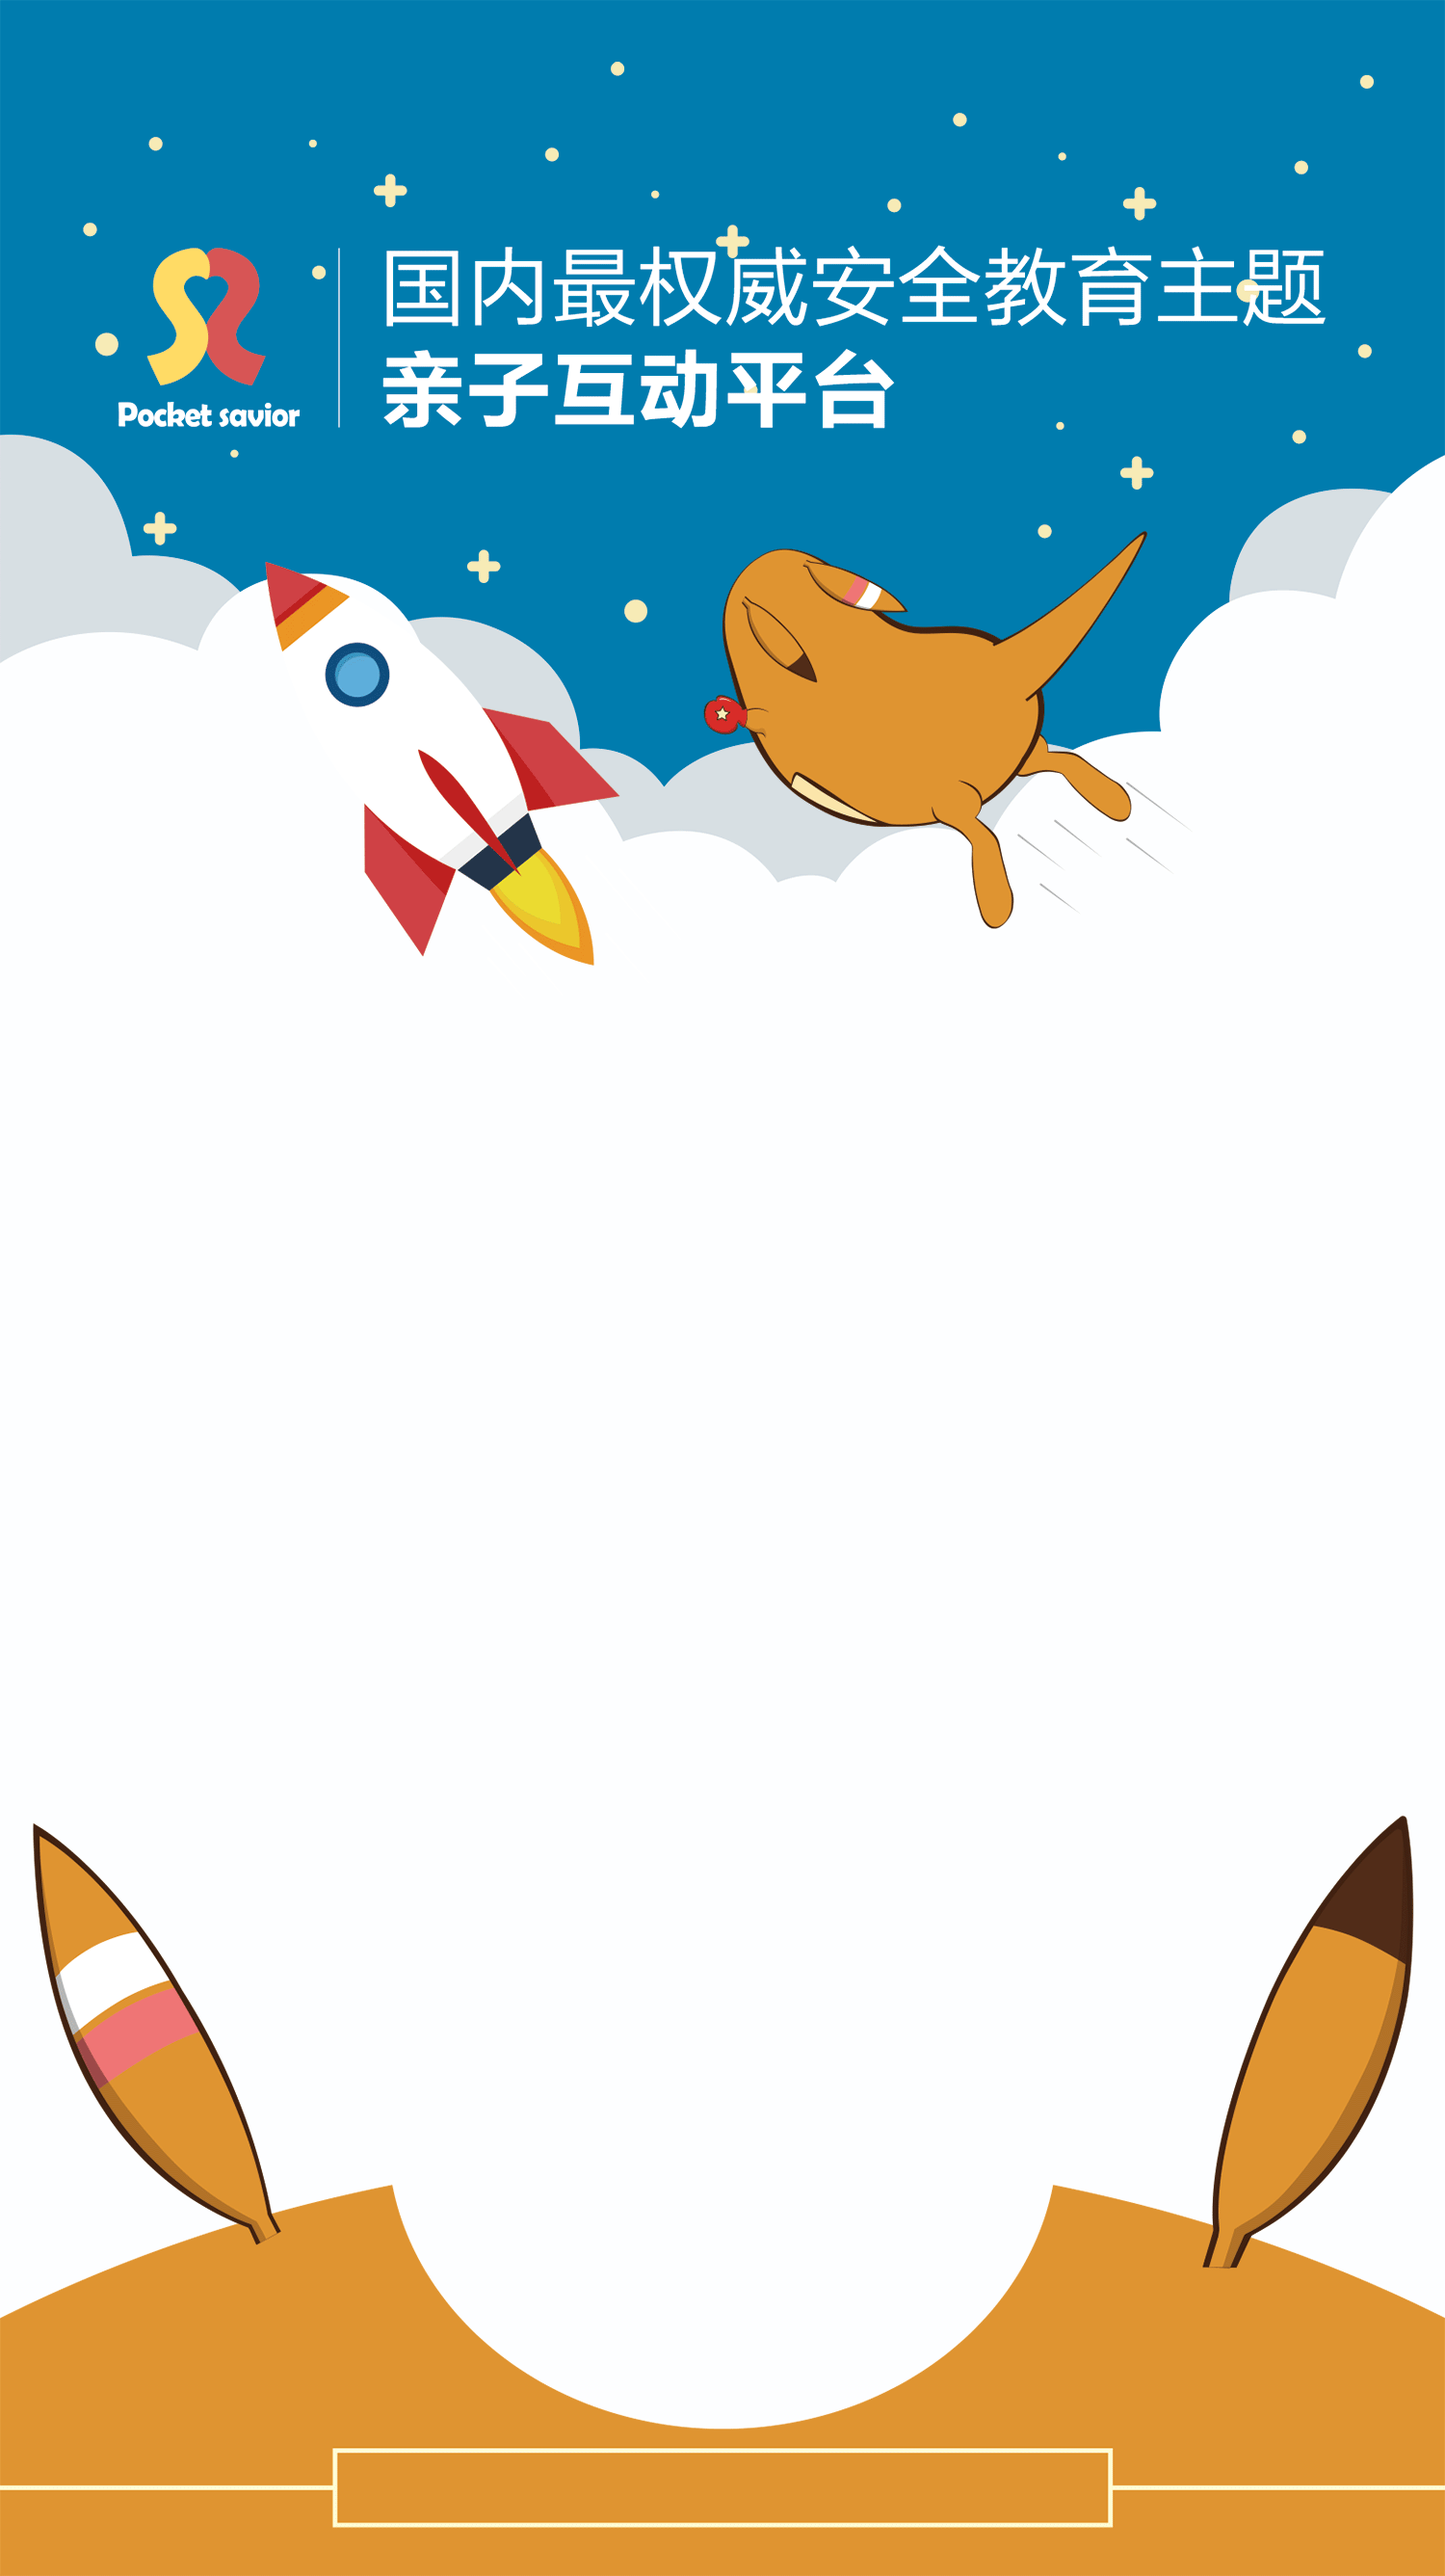
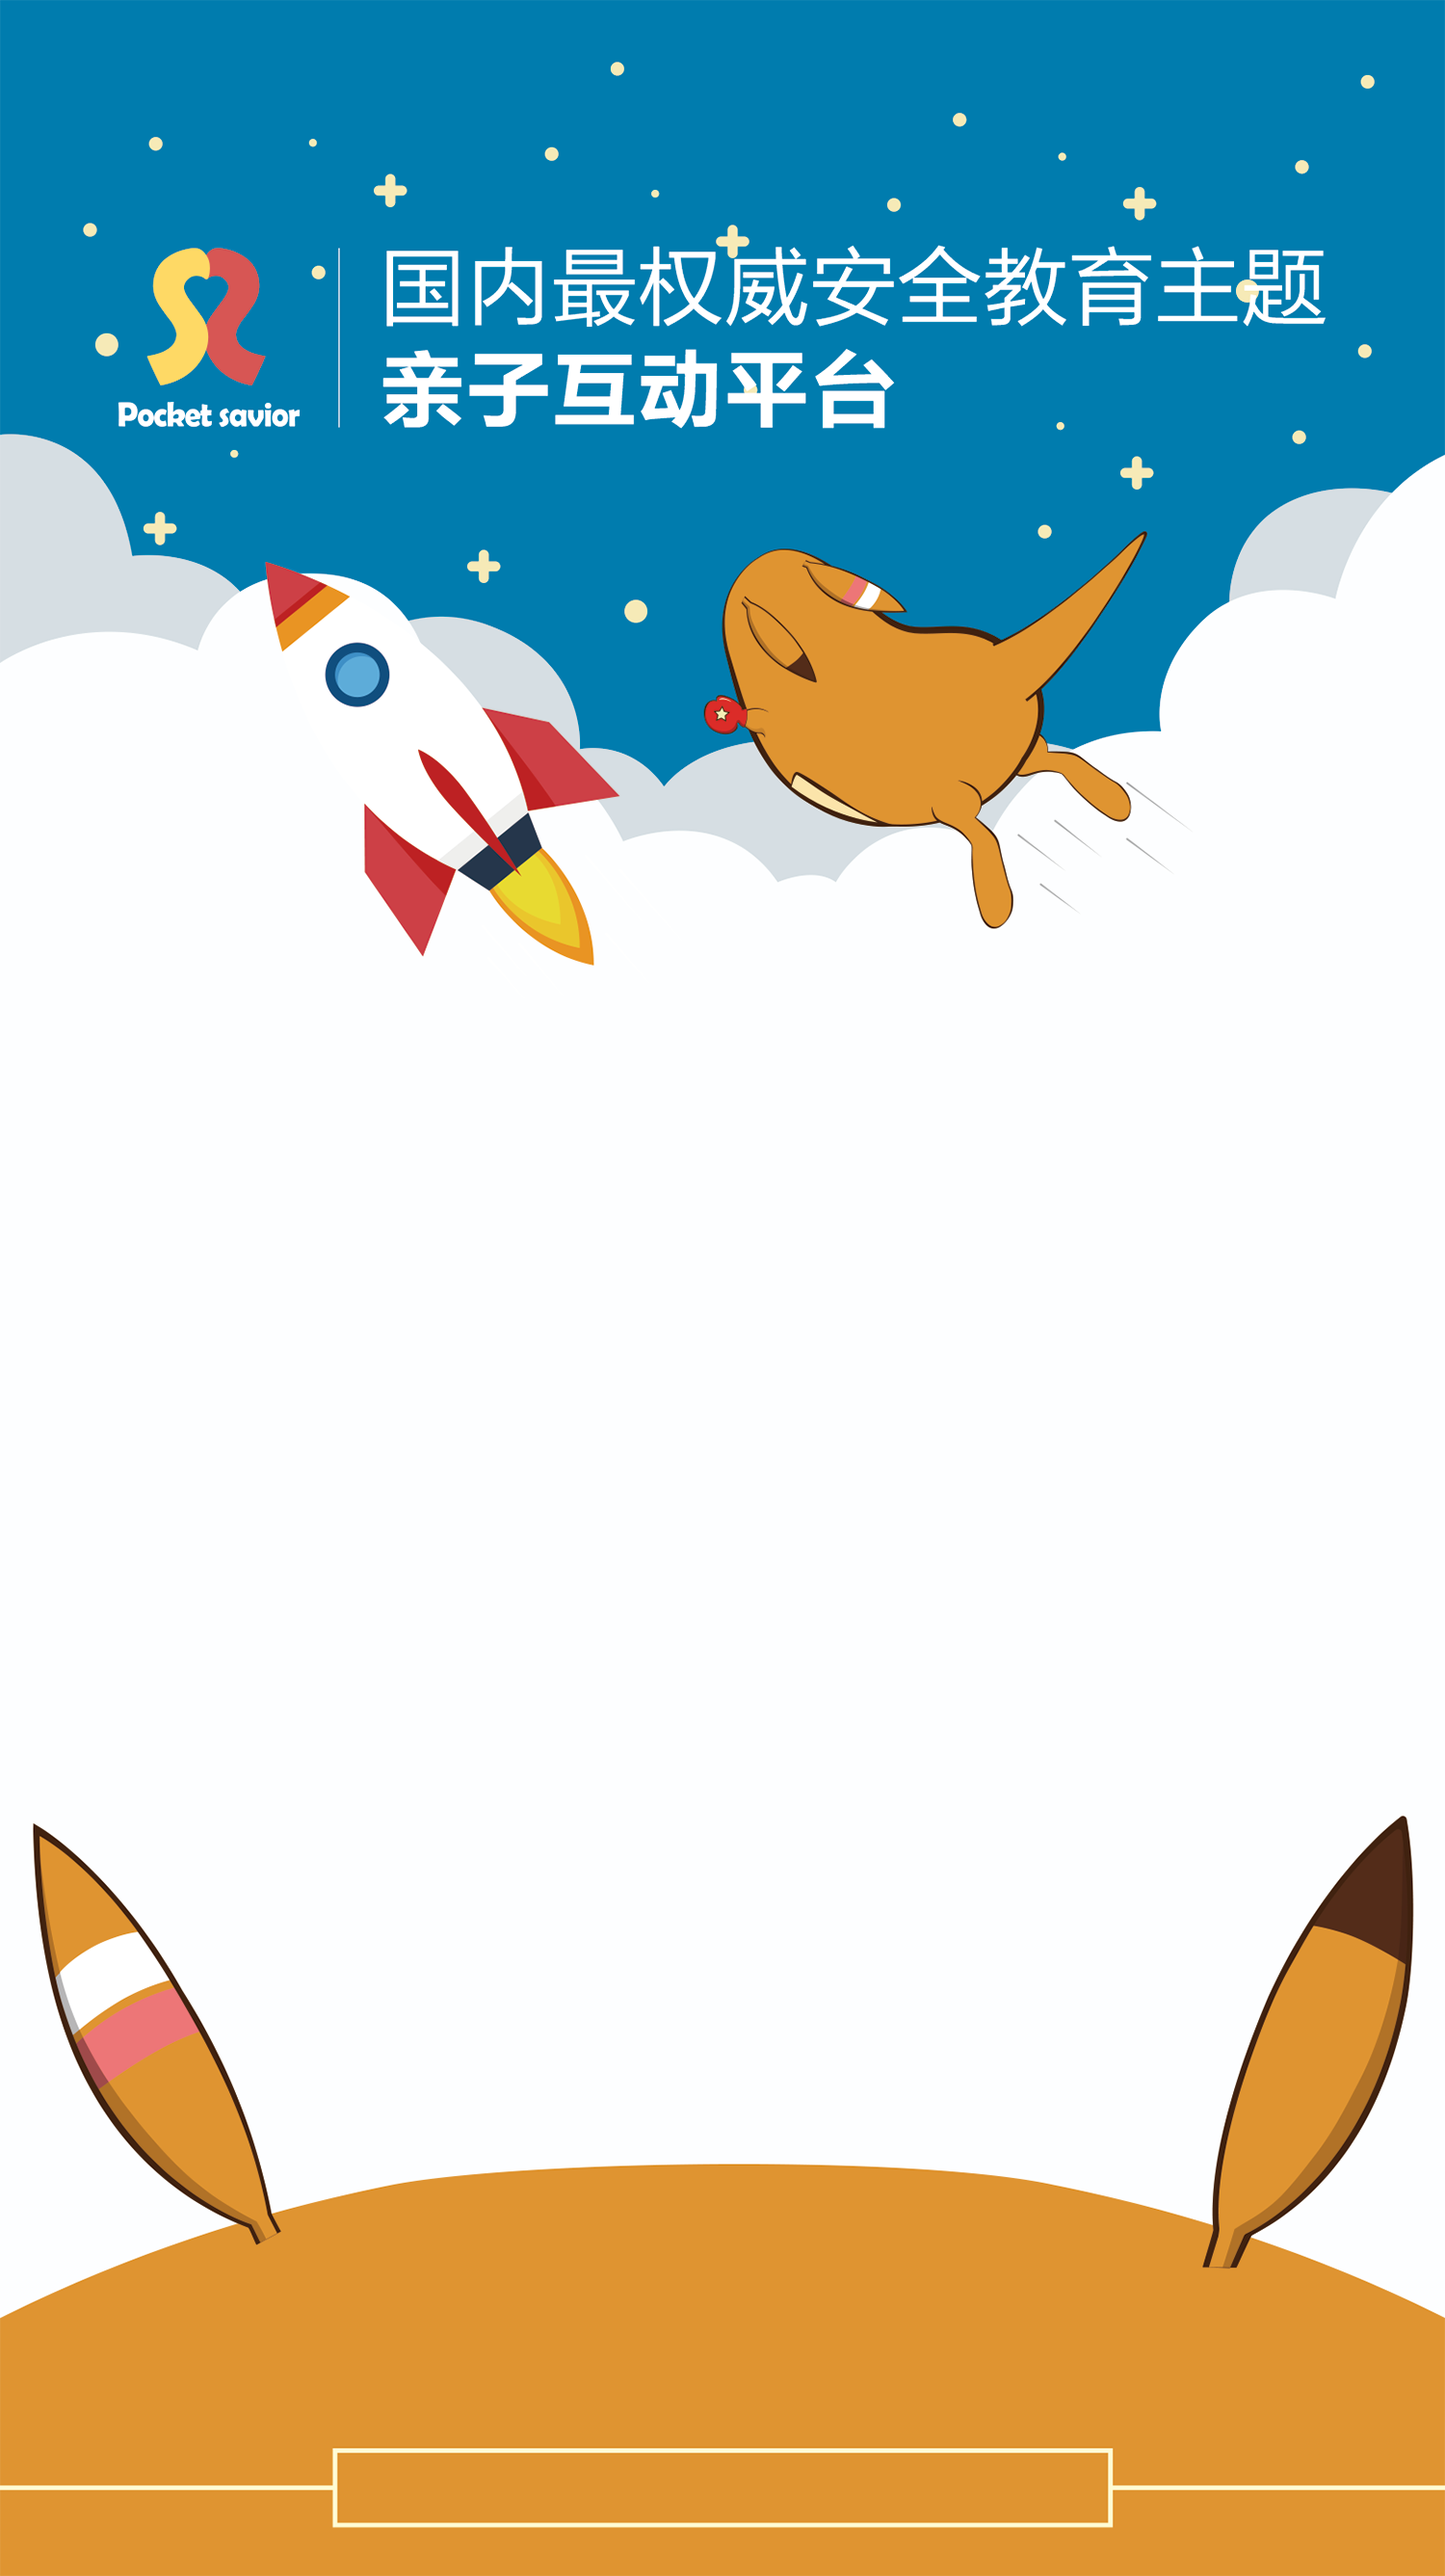
Book页完成

Changed region(s): [[0.276, 0.8384, 0.736, 0.9626], [0.5827, 0.2174, 0.6133, 0.2484]]

diff --git a/Mobile/views/book.html b/Mobile/views/book.html
@@ -3,14 +3,14 @@
         <img src="images/followus/followus_close.png" class="favbox_close" ng-click="hideFav($event)">
     </div>
     <ul class="book_links">
-        <li style="margin-bottom: 3%;"><a href="javascript:;" ng-click="showBookChapter($event,1)"><img src="images/book/book_link_zrzh.png" class="section_img"></a></li>
-        <li style="margin-bottom: 3%;"><a href="javascript:;" ng-click="showBookChapter($event,1)"><img src="images/book/book_link_sgzh.png" class="section_img"></a></li>
-        <li style="margin-bottom: 3%;"><a href="javascript:;" ng-click="showBookChapter($event,1)"><img src="images/book/book_link_shaq.png" class="section_img"></a></li>
+        <li style="margin-bottom: 4%;"><a href="javascript:;" ng-click="showBookChapter($event,1)"><img src="images/book/book_link_zrzh.png" class="section_img"></a></li>
+        <li style="margin-bottom: 4%;"><a href="javascript:;" ng-click="showBookChapter($event,1)"><img src="images/book/book_link_sgzh.png" class="section_img"></a></li>
+        <li style="margin-bottom: 4%;"><a href="javascript:;" ng-click="showBookChapter($event,1)"><img src="images/book/book_link_shaq.png" class="section_img"></a></li>
         <li><a href="javascript:;" ng-click="showBookChapter($event,1)"><img src="images/book/book_link_ywsh.png" class="section_img"></a></li>
         <li><a href="javascript:;" ng-click="showBookChapter($event,1)"><img src="images/book/book_link_ggws.png" class="section_img"></a></li>
         <li><a href="javascript:;" ng-click="showBookChapter($event,1)"><img src="images/book/book_link_yjcs.png" class="section_img"></a></li>
     </ul>
-    <img src="images/book/book_start.png" class="icon_book_start">
+    <a href="#/aboutus"><img src="images/book/icon_aboutus.png" class="icon_aboutus"></a>
     <img src="images/book/icon_fav.png" class="icon_fav" ng-click="showFav($event)">
     <div ng-include="'views/notice.html'"></div>
 </div>

diff --git a/Mobile/styles/common.css b/Mobile/styles/common.css
@@ -48,7 +48,7 @@
 .notice {
     position: absolute;
     font-size: 81%;
-    bottom: 1.83%;
+    bottom: 1.5%;
     color: #FFFFFF;
     left: 12.5%;
     width: 75%;
@@ -92,20 +92,19 @@
     background: url("../images/book/book_bg.png");
     background-size: 100% 100%;
 }
-.bookbox img.icon_book_start {
+.bookbox img.icon_aboutus {
     position: absolute;
-    width: 40.4%;
-    height: 15%;
-    top: 77.7%;
+    width: 53.13%;
+    bottom: 7%;
     left: 50%;
-    margin-left: -20.2%;
+    margin-left: -26.55%;
 }
 .bookbox ul.book_links {
     position: absolute;
     display: block;
     margin: 0 auto;
     width: 75%;
-    bottom: 25.5%;
+    bottom: 25%;
     left: 12.5%;
 }
 .bookbox ul.book_links li {
@@ -143,7 +142,7 @@
 
 /********************************book********************************/
 .chapterbox {
-    /*display: none;*/
+    display: none;
     width: 100%;
     height: 100%;
     background: rgba(35, 24, 21, 0.8);

diff --git a/Mobile/js/app.js b/Mobile/js/app.js
@@ -15,6 +15,14 @@ define(["require", "jquery", "angular", "angular-route"], function (require, jqu
 			templateUrl: 'views/book.html',
 			controller: 'BookController'
 		})
+		.when('/chapter/chapterid/:chapterid', {
+			templateUrl: 'views/chapter.html',
+			controller: 'BookController'
+		})
+		.when('/aboutus', {
+			templateUrl: 'views/aboutus.html',
+			controller: 'BookController'
+		})
 		.otherwise({
 			redirectTo: '/'
 		});
